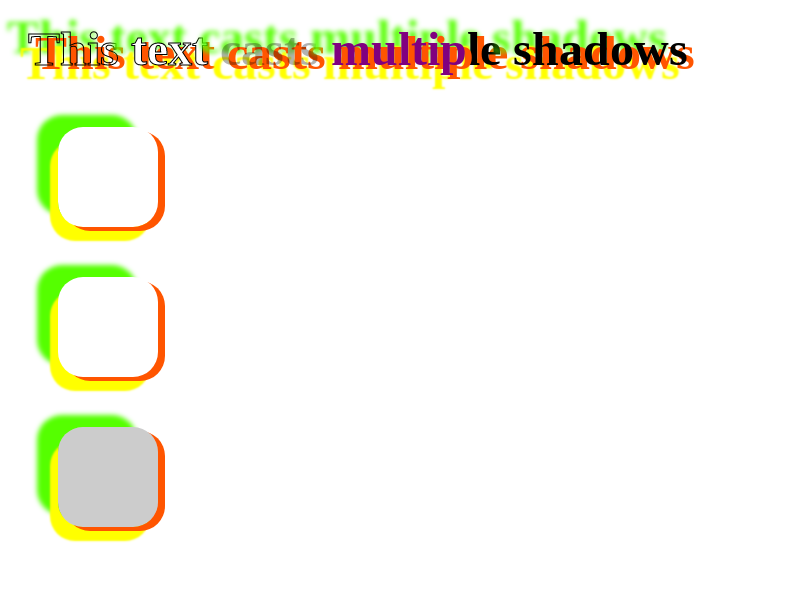
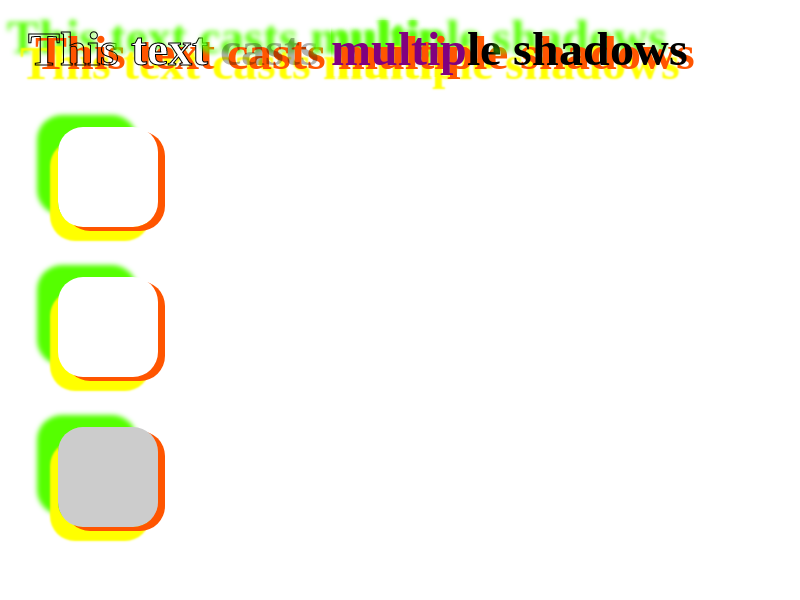
CSS highlight painting order: independent originating element shadows
This patch fixes several bugs around ::selection shadow painting.

We now paint the originating element’s shadows for selected text when
painting the same shadows for the unselected parts, suppressing only
the text proper in the selected part.

We now suppress the originating element’s shadows when painting the
ClipOut phase in NGTextPainter::PaintSelectedText, because this is the
wrong time (and wrong clipping rect) to paint those shadows.

The net result of these first two changes is that originating element
shadows for all text (including selected text) are now painted without
erroneous clipping, and always behind any unselected text proper.

We now clear any ShadowList pointer copied from the given style in
HPU::HighlightPaintingStyle, because the default text-shadow for each
highlight pseudo should be none, not inherited from the originating
element. Previously we would paint originating element shadows over
the ::selection background if HighlightPseudoStyle returns nullptr.

Together these changes should fix bug 474335 entirely, and go a long
way towards spec-compliant highlight painting (bug 1147859). Relevant
tests and screenshots (relative to <https://crrev.com/c/2647046>):

• https://wpt.live/css/css-pseudo/highlight-painting-order.html
• https://bucket.daz.cat/work/igalia/0/6.html?wm=vertical-rl
• https://bucket.daz.cat/8361fa79820580e0.png (right = patch)

Bug: 1147859, 474335
Commit-Queue: Delan Azabani <dazabani@igalia.com>
[…]

Changed region(s): [[0.4062, 0.03, 0.5938, 0.15]]

diff --git a/renderer/core/paint/text_painter_base.cc b/renderer/core/paint/text_painter_base.cc
@@ -78,7 +78,8 @@ void TextPainterBase::UpdateGraphicsContext(
     GraphicsContext& context,
     const TextPaintStyle& text_style,
     bool horizontal,
-    GraphicsContextStateSaver& state_saver) {
+    GraphicsContextStateSaver& state_saver,
+    ShadowMode shadow_mode) {
   TextDrawingModeFlags mode = context.TextDrawingMode();
   if (text_style.stroke_width > 0) {
     TextDrawingModeFlags new_mode = mode | kTextModeStroke;
@@ -99,12 +100,49 @@ void TextPainterBase::UpdateGraphicsContext(
       context.SetStrokeThickness(text_style.stroke_width);
   }
 
-  if (text_style.shadow) {
-    state_saver.SaveIfNeeded();
-    context.SetDrawLooper(text_style.shadow->CreateDrawLooper(
-        DrawLooperBuilder::kShadowIgnoresAlpha, text_style.current_color,
-        text_style.color_scheme, horizontal));
+  if (shadow_mode != kTextProperOnly) {
+    DCHECK(shadow_mode == kBothShadowsAndTextProper ||
+           shadow_mode == kShadowsOnly);
+
+    // If there are shadows, we definitely need an SkDrawLooper, but if there
+    // are no shadows (nullptr), we still need one iff we’re in kShadowsOnly
+    // mode, because we suppress text proper by omitting AddUnmodifiedContent
+    // when building a looper (cf. CRC2DState::ShadowAndForegroundDrawLooper).
+    if (text_style.shadow || shadow_mode == kShadowsOnly) {
+      state_saver.SaveIfNeeded();
+      context.SetDrawLooper(CreateDrawLooper(
+          text_style.shadow, DrawLooperBuilder::kShadowIgnoresAlpha,
+          text_style.current_color, text_style.color_scheme, horizontal,
+          shadow_mode));
+    }
   }
+}
+
+// static
+sk_sp<SkDrawLooper> TextPainterBase::CreateDrawLooper(
+    const ShadowList* shadow_list,
+    DrawLooperBuilder::ShadowAlphaMode alpha_mode,
+    const Color& current_color,
+    mojom::blink::ColorScheme color_scheme,
+    bool is_horizontal,
+    ShadowMode shadow_mode) {
+  DrawLooperBuilder draw_looper_builder;
+
+  // ShadowList nullptr means there are no shadows.
+  if (shadow_mode != kTextProperOnly && shadow_list) {
+    for (wtf_size_t i = shadow_list->Shadows().size(); i--;) {
+      const ShadowData& shadow = shadow_list->Shadows()[i];
+      float shadow_x = is_horizontal ? shadow.X() : shadow.Y();
+      float shadow_y = is_horizontal ? shadow.Y() : -shadow.X();
+      draw_looper_builder.AddShadow(
+          FloatSize(shadow_x, shadow_y), shadow.Blur(),
+          shadow.GetColor().Resolve(current_color, color_scheme),
+          DrawLooperBuilder::kShadowRespectsTransforms, alpha_mode);
+    }
+  }
+  if (shadow_mode != kShadowsOnly)
+    draw_looper_builder.AddUnmodifiedContent();
+  return draw_looper_builder.DetachDrawLooper();
 }
 
 Color TextPainterBase::TextColorForWhiteBackground(Color text_color) {

diff --git a/renderer/core/paint/ng/ng_text_fragment_painter.cc b/renderer/core/paint/ng/ng_text_fragment_painter.cc
@@ -359,20 +359,29 @@ class SelectionPaintState {
                                    selection_style_, *selection_rect_, node_id);
   }
 
-  // Paint the text except selected parts. Does nothing if all is selected.
-  void PaintBeforeAndAfterSelectedText(NGTextPainter& text_painter,
-                                       unsigned start_offset,
-                                       unsigned end_offset,
-                                       unsigned length,
-                                       const TextPaintStyle& text_style,
-                                       DOMNodeId node_id) {
+  // Paint the given text range in the given style, suppressing the text proper
+  // (painting shadows only) where selected.
+  void PaintSuppressingTextProperWhereSelected(NGTextPainter& text_painter,
+                                               unsigned start_offset,
+                                               unsigned end_offset,
+                                               unsigned length,
+                                               const TextPaintStyle& text_style,
+                                               DOMNodeId node_id) {
+    // First paint the shadows for the whole range.
+    if (text_style.shadow) {
+      text_painter.Paint(start_offset, end_offset, length, text_style, node_id,
+                         NGTextPainter::kShadowsOnly);
+    }
+
+    // Then paint the text proper for any unselected parts in storage order, so
+    // that they’re always on top of the shadows.
     if (start_offset < selection_status_.start) {
       text_painter.Paint(start_offset, selection_status_.start, length,
-                         text_style, node_id);
+                         text_style, node_id, NGTextPainter::kTextProperOnly);
     }
     if (selection_status_.end < end_offset) {
       text_painter.Paint(selection_status_.end, end_offset, length, text_style,
-                         node_id);
+                         node_id, NGTextPainter::kTextProperOnly);
     }
   }
 
@@ -642,7 +651,7 @@ void NGTextFragmentPainter::Paint(const PaintInfo& paint_info,
     unsigned end_offset = fragment_paint_info.to;
 
     if (UNLIKELY(selection)) {
-      selection->PaintBeforeAndAfterSelectedText(
+      selection->PaintSuppressingTextProperWhereSelected(
           text_painter, start_offset, end_offset, length, text_style, node_id);
     } else {
       text_painter.Paint(start_offset, end_offset, length, text_style, node_id);

diff --git a/renderer/core/paint/text_painter_base.h b/renderer/core/paint/text_painter_base.h
@@ -13,6 +13,7 @@
 #include "third_party/blink/renderer/core/style/text_decoration_thickness.h"
 #include "third_party/blink/renderer/platform/fonts/font.h"
 #include "third_party/blink/renderer/platform/graphics/color.h"
+#include "third_party/blink/renderer/platform/graphics/draw_looper_builder.h"
 #include "third_party/blink/renderer/platform/transforms/affine_transform.h"
 #include "third_party/blink/renderer/platform/wtf/allocator/allocator.h"
 #include "third_party/blink/renderer/platform/wtf/text/atomic_string.h"
@@ -48,10 +49,19 @@ class CORE_EXPORT TextPainterBase {
   void SetEmphasisMark(const AtomicString&, TextEmphasisPosition);
   void SetEllipsisOffset(int offset) { ellipsis_offset_ = offset; }
 
+  enum ShadowMode { kBothShadowsAndTextProper, kShadowsOnly, kTextProperOnly };
   static void UpdateGraphicsContext(GraphicsContext&,
                                     const TextPaintStyle&,
                                     bool horizontal,
-                                    GraphicsContextStateSaver&);
+                                    GraphicsContextStateSaver&,
+                                    ShadowMode = kBothShadowsAndTextProper);
+  static sk_sp<SkDrawLooper> CreateDrawLooper(
+      const ShadowList* shadow_list,
+      DrawLooperBuilder::ShadowAlphaMode,
+      const Color& current_color,
+      mojom::blink::ColorScheme color_scheme,
+      bool is_horizontal = true,
+      ShadowMode = kBothShadowsAndTextProper);
 
   void PaintDecorationsExceptLineThrough(const TextDecorationOffsetBase&,
                                          TextDecorationInfo&,

diff --git a/renderer/core/paint/ng/ng_text_painter.cc b/renderer/core/paint/ng/ng_text_painter.cc
@@ -26,9 +26,11 @@ void NGTextPainter::Paint(unsigned start_offset,
                           unsigned end_offset,
                           unsigned length,
                           const TextPaintStyle& text_style,
-                          DOMNodeId node_id) {
+                          DOMNodeId node_id,
+                          ShadowMode shadow_mode) {
   GraphicsContextStateSaver state_saver(graphics_context_, false);
-  UpdateGraphicsContext(text_style, state_saver);
+  UpdateGraphicsContext(graphics_context_, text_style, horizontal_, state_saver,
+                        shadow_mode);
   // TODO(layout-dev): Handle combine text here or elsewhere.
   PaintInternal<kPaintText>(start_offset, end_offset, length, node_id);
 
@@ -80,7 +82,8 @@ void NGTextPainter::PaintSelectedText(unsigned start_offset,
   {
     GraphicsContextStateSaver state_saver(graphics_context_);
     graphics_context_.ClipOut(float_selection_rect);
-    Paint(start_offset, end_offset, length, text_style, node_id);
+    Paint(start_offset, end_offset, length, text_style, node_id,
+          kTextProperOnly);
   }
   // Then draw the glyphs inside the selection area, with the selection style.
   {

diff --git a/renderer/core/paint/svg_inline_text_box_painter.cc b/renderer/core/paint/svg_inline_text_box_painter.cc
@@ -23,6 +23,7 @@
 #include "third_party/blink/renderer/core/paint/paint_timing.h"
 #include "third_party/blink/renderer/core/paint/paint_timing_detector.h"
 #include "third_party/blink/renderer/core/paint/svg_object_painter.h"
+#include "third_party/blink/renderer/core/paint/text_painter_base.h"
 #include "third_party/blink/renderer/core/style/applied_text_decoration.h"
 #include "third_party/blink/renderer/core/style/shadow_list.h"
 #include "third_party/blink/renderer/core/svg/svg_element.h"
@@ -419,8 +420,8 @@ bool SVGInlineTextBoxPainter::SetupTextPaint(
   if (style.TextShadow() &&
       // Text shadows are disabled when printing. http://crbug.com/258321
       !InlineLayoutObject().GetDocument().Printing()) {
-    flags.setLooper(style.TextShadow()->CreateDrawLooper(
-        DrawLooperBuilder::kShadowRespectsAlpha,
+    flags.setLooper(TextPainterBase::CreateDrawLooper(
+        style.TextShadow(), DrawLooperBuilder::kShadowRespectsAlpha,
         style.VisitedDependentColor(GetCSSPropertyColor()),
         style.UsedColorScheme()));
   }

diff --git a/renderer/core/style/shadow_list.cc b/renderer/core/style/shadow_list.cc
@@ -49,23 +49,4 @@ void ShadowList::AdjustRectForShadow(FloatRect& rect) const {
   rect.Expand(RectOutsetsIncludingOriginal());
 }
 
-sk_sp<SkDrawLooper> ShadowList::CreateDrawLooper(
-    DrawLooperBuilder::ShadowAlphaMode alpha_mode,
-    const Color& current_color,
-    mojom::blink::ColorScheme color_scheme,
-    bool is_horizontal) const {
-  DrawLooperBuilder draw_looper_builder;
-  for (wtf_size_t i = Shadows().size(); i--;) {
-    const ShadowData& shadow = Shadows()[i];
-    float shadow_x = is_horizontal ? shadow.X() : shadow.Y();
-    float shadow_y = is_horizontal ? shadow.Y() : -shadow.X();
-    draw_looper_builder.AddShadow(
-        FloatSize(shadow_x, shadow_y), shadow.Blur(),
-        shadow.GetColor().Resolve(current_color, color_scheme),
-        DrawLooperBuilder::kShadowRespectsTransforms, alpha_mode);
-  }
-  draw_looper_builder.AddUnmodifiedContent();
-  return draw_looper_builder.DetachDrawLooper();
-}
-
 }  // namespace blink

diff --git a/renderer/core/paint/highlight_painting_utils.cc b/renderer/core/paint/highlight_painting_utils.cc
@@ -288,6 +288,10 @@ TextPaintStyle HighlightPaintingUtils::HighlightPaintingStyle(
   bool uses_text_as_clip = paint_info.phase == PaintPhase::kTextClip;
   const GlobalPaintFlags global_paint_flags = paint_info.GetGlobalPaintFlags();
 
+  // Each highlight overlay’s shadows are completely independent of any shadows
+  // specified on the originating element (or the other highlight overlays).
+  highlight_style.shadow = nullptr;
+
   if (!uses_text_as_clip) {
     highlight_style.fill_color = HighlightForegroundColor(
         document, style, node, pseudo, global_paint_flags);

diff --git a/renderer/core/style/shadow_list.h b/renderer/core/style/shadow_list.h
@@ -65,11 +65,6 @@ class ShadowList : public RefCounted<ShadowList> {
 
   void AdjustRectForShadow(FloatRect&) const;
 
-  sk_sp<SkDrawLooper> CreateDrawLooper(DrawLooperBuilder::ShadowAlphaMode,
-                                       const Color& current_color,
-                                       mojom::blink::ColorScheme color_scheme,
-                                       bool is_horizontal = true) const;
-
  private:
   ShadowList(ShadowDataVector& shadows) {
     // If we have no shadows, we use a null ShadowList

diff --git a/renderer/core/paint/ng/ng_text_painter.h b/renderer/core/paint/ng/ng_text_painter.h
@@ -46,7 +46,8 @@ class CORE_EXPORT NGTextPainter : public TextPainterBase {
              unsigned end_offset,
              unsigned length,
              const TextPaintStyle&,
-             DOMNodeId);
+             DOMNodeId,
+             ShadowMode = kBothShadowsAndTextProper);
 
   void PaintSelectedText(unsigned start_offset,
                          unsigned end_offset,
